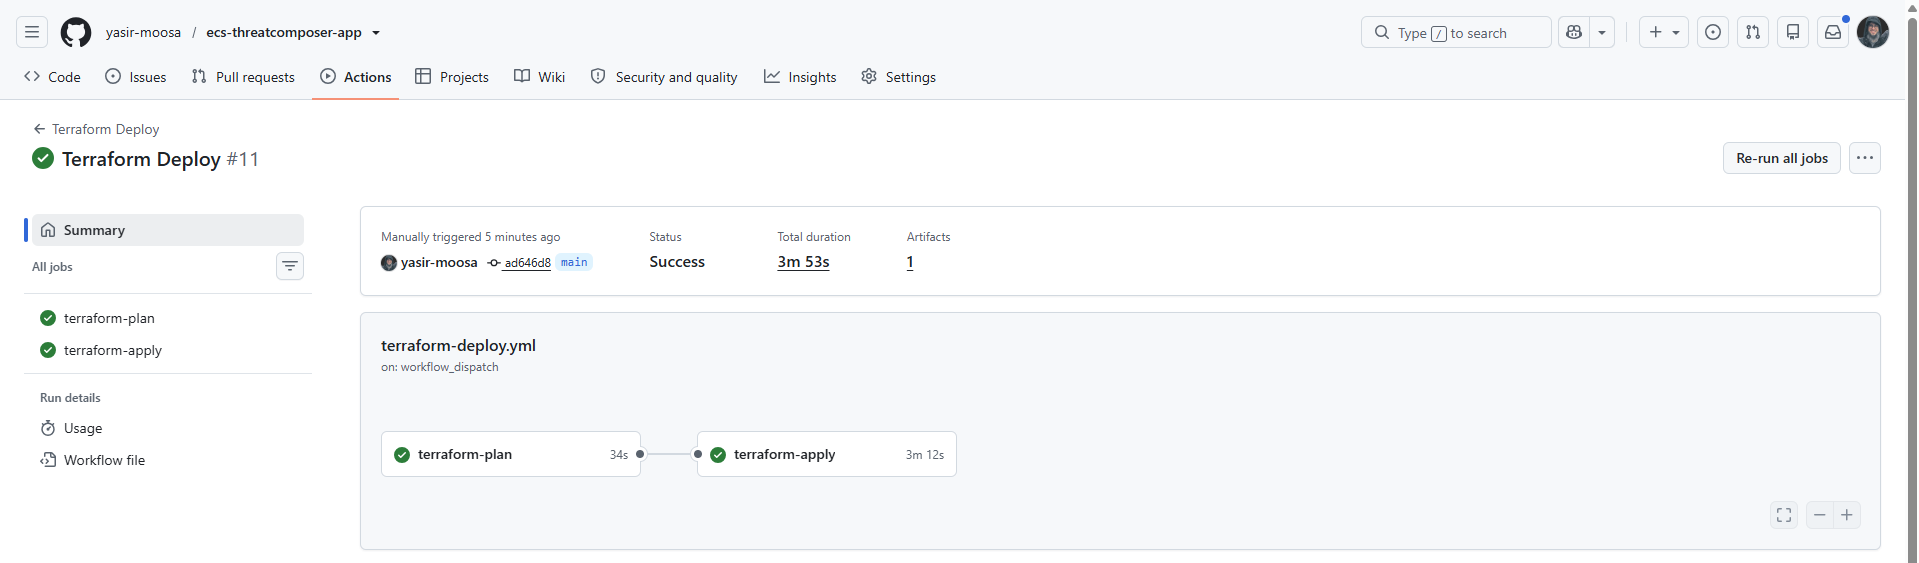
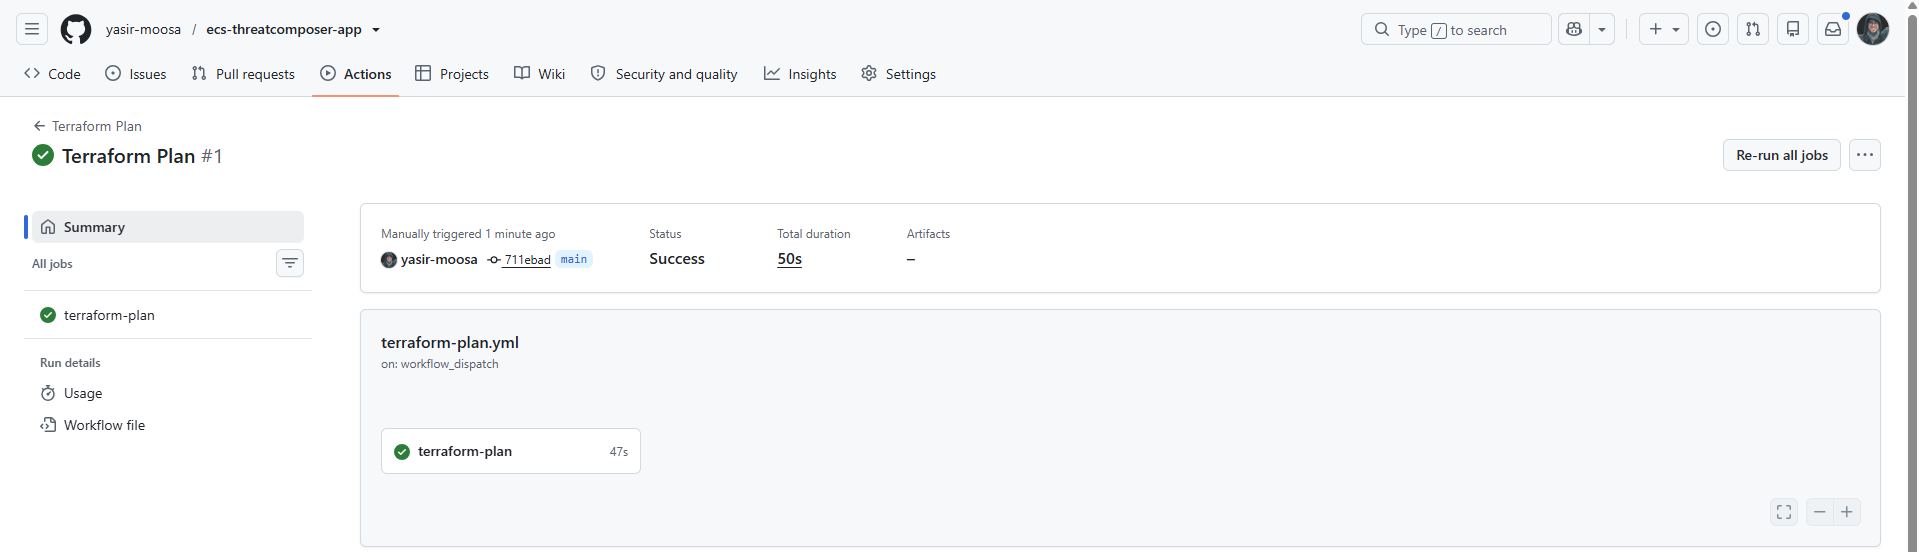
add new screenshots for terraform plan pipeline

diff --git a/README.md b/README.md
@@ -141,14 +141,17 @@ URL used: `tm.yasirmoosa.tech`
 ### Docker Image Publish
 ![Build and Push Image](images/pipeline1-success.png)
 
+### Terraform Plan 
+![Terraform Plan](images/pipeline2-success.png)
+
 ### Terraform Plan + Apply
-![Terraform Deploy](images/pipeline2-success.png)
+![Terraform Deploy](images/pipeline3-success.png)
 
 ### Terraform Plan + Destroy
-![Terraform Destroy](images/pipeline3-success.png)
+![Terraform Destroy](images/pipeline4-success.png)
 
 ### Domain URL Health Check
-![Post-Deployment Health Check](images/pipeline4-success.png)
+![Post-Deployment Health Check](images/pipeline5-success.png)
 
 ## CloudWatch Dashboard
 
